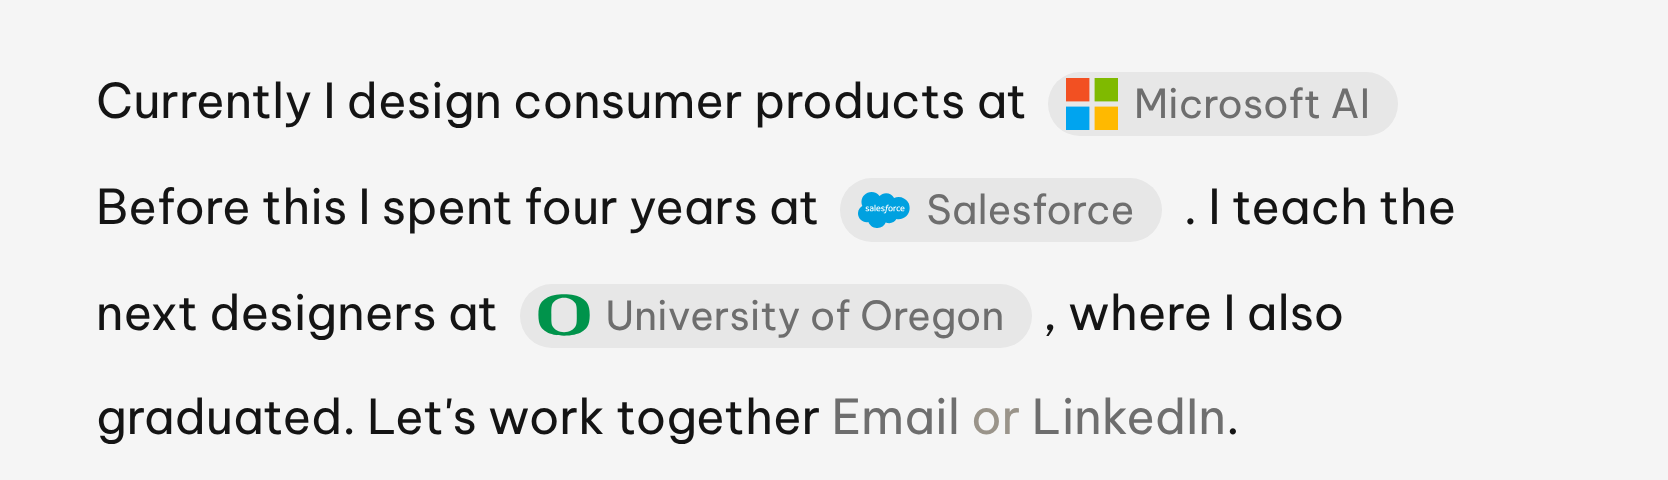
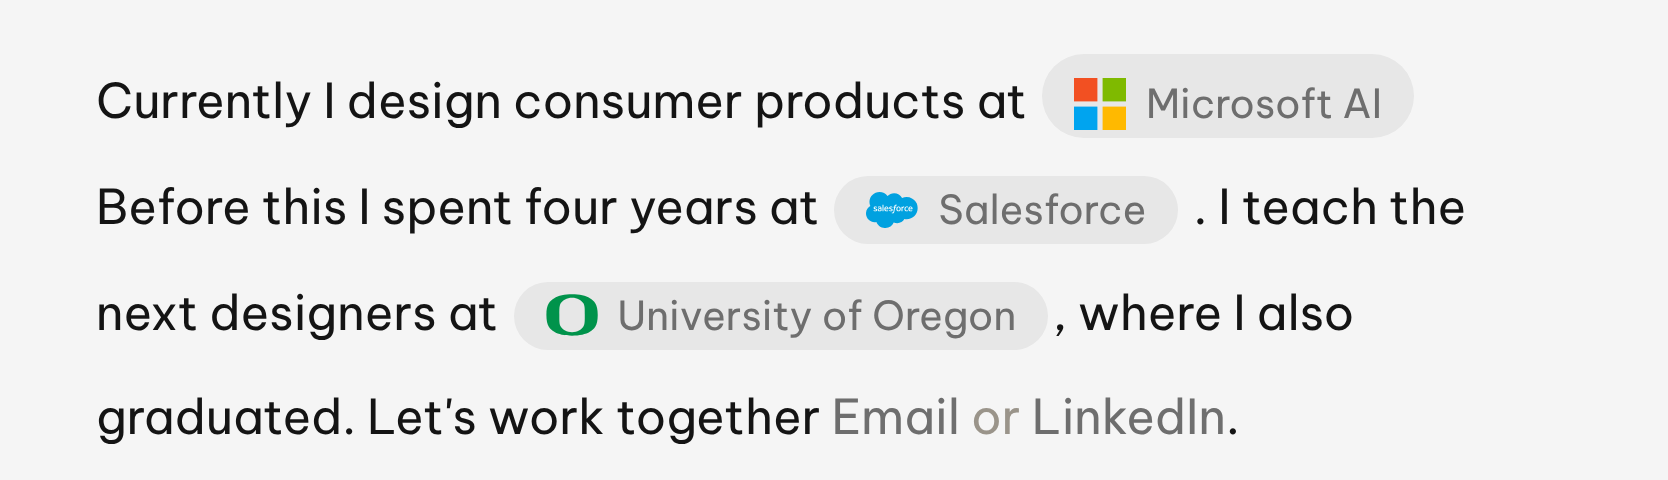
Tablet C prose: let pill padding be tweaked from the canvas
Drop the !important padding and gap on the inline chips so the values set in
the editor apply, and give Salesforce and Oregon the same base padding as
Microsoft.

Claude-Session: https://claude.ai/code/session_014PJDPx1vavpf8H6JAWoaqx

diff --git a/canvas/project/TinHome-Tablet-C.dc.html b/canvas/project/TinHome-Tablet-C.dc.html
@@ -125,7 +125,7 @@ sc-for, sc-if { display: contents; }
 .th-prose button{font-family:inherit;vertical-align:baseline}
 /* pills breathe: taller lines, one padding for every chip, logos in full brand color */
 .th-prose{line-height:2.2 !important}
-.th-prose .th-co{padding:3px 14px 3px 9px !important;margin:0 5px !important;gap:8px !important;vertical-align:-6px !important}
+.th-prose .th-co{margin:0 5px;vertical-align:-6px}
 .th-prose .th-co .lg,.th-prose .th-co:hover .lg{filter:none !important}
 .th-prose .lg,.th-prose .lg-frame{width:26px !important;height:26px !important}
 .th-prose .th-co p{line-height:1.3 !important}
@@ -146,7 +146,7 @@ sc-for, sc-if { display: contents; }
 
   <section id="top" class="th-hero" onPointerMove="{{trMove}}" onPointerLeave="{{trLeave}}" style="min-height: 760px; display: flex; grid-template-columns: repeat(3, minmax(0, 1fr)) minmax(220px, 1.1fr); align-items: flex-start; gap: 24px; padding: 0 100px; flex-direction: column; justify-content: center; padding-right: 150px; padding-left: 150px; position: relative">
     <div style="align-items: flex-end"><p onPointerEnter="{{hiEnter}}" style="margin: 0; font-size: 46px; font-family: Caveat, sans-serif">Hi, I'm Tin</p></div>
-    <div class="th-prose" style="grid-column: 1 / -1; max-width: 700px; font-size: 24px; line-height: 1.8; color: #141414; font-weight: 400"><span>Currently I design consumer products at</span> <a class="th-co" href="https://microsoft.ai" target="_blank" rel="noopener" onPointerEnter="{{msEnter}}" onPointerLeave="{{msLeave}}" style="box-sizing: border-box; display: flex; flex-direction: row; gap: 10px; align-items: center; text-decoration: none; padding-top: 4px; padding-bottom: 4px; padding-right: 16px; padding-left: 16px"><span class="lg-frame" style="flex: none; width: 24px; height: 24px; display: grid; place-items: center"><svg class="lg" role="img" aria-label="Microsoft" width="24" height="24" viewBox="0 0 20 20" style="display: block"><rect x="0" y="0" width="9" height="9" fill="#f25022"></rect><rect x="11" y="0" width="9" height="9" fill="#7fba00"></rect><rect x="0" y="11" width="9" height="9" fill="#00a4ef"></rect><rect x="11" y="11" width="9" height="9" fill="#ffb900"></rect></svg></span><p style="margin: 0; font-size: 20px; color: #6e6e6e">Microsoft AI</p></a> <span>Before this I spent four years at</span> <a class="th-co" href="https://www.salesforce.com" target="_blank" rel="noopener" onPointerEnter="{{sfEnter}}" onPointerLeave="{{sfLeave}}" style="box-sizing: border-box; display: flex; flex-direction: row; gap: 10px; align-items: center; text-decoration: none; padding-top: 8px; padding-bottom: 8px"><span class="lg-frame" style="flex: none; width: 24px; height: 24px; display: grid; place-items: center"><img class="lg" src="/_blob/ac43d25c19be4e522f4bd492e1c090ab" alt="Salesforce" style="width: 24px; height: 24px; object-fit: contain; display: block"></span><p style="margin: 0; font-size: 20px; color: #6e6e6e">Salesforce</p></a> <span>. I teach the next designers at</span> <a class="th-co" href="https://artdesign.uoregon.edu/directory/product-design-instructors/all/tle" target="_blank" rel="noopener" onPointerEnter="{{uoEnter}}" onPointerLeave="{{uoLeave}}" onFocus="{{uoEnter}}" onBlur="{{uoLeave}}" style="box-sizing: border-box; display: flex; flex-direction: row; gap: 10px; align-items: center; text-decoration: none; padding-top: 8px; padding-bottom: 8px"><span class="lg-frame" style="flex: none; width: 24px; height: 24px; display: grid; place-items: center"><img class="lg" src="/_blob/00e0e1ec841a28c4e0055e4a6738e6b1" alt="University of Oregon" style="width: 24px; height: 24px; object-fit: contain; display: block"></span><p style="margin: 0; font-size: 20px; color: #6e6e6e">University of Oregon</p></a><span>, where I also graduated. Let's work together</span> <button type="button" onClick="{{copy}}" onPointerEnter="{{gmEnter}}" onPointerLeave="{{gmLeave}}" title="Copy my email" style="background: none; border: 0; padding: 0; font: inherit; font-size: 22px; color: #6e6e6e; cursor: pointer">{{copyLabel}}</button> <span><span style="color: #9a948a">or</span> <a href="https://www.linkedin.com/in/letin08/" onPointerEnter="{{liEnter}}" onPointerLeave="{{liLeave}}" style="font-size: 22px; color: #6e6e6e">LinkedIn</a>.</span></div>
+    <div class="th-prose" style="grid-column: 1 / -1; max-width: 700px; font-size: 24px; line-height: 1.8; color: #141414; font-weight: 400"><span>Currently I design consumer products at</span> <a class="th-co" href="https://microsoft.ai" target="_blank" rel="noopener" onPointerEnter="{{msEnter}}" onPointerLeave="{{msLeave}}" style="box-sizing: border-box; display: flex; flex-direction: row; gap: 10px; align-items: center; text-decoration: none; padding-top: 12px; padding-bottom: 4px; padding-right: 16px; padding-left: 16px"><span class="lg-frame" style="flex: none; width: 24px; height: 24px; display: grid; place-items: center"><svg class="lg" role="img" aria-label="Microsoft" width="24" height="24" viewBox="0 0 20 20" style="display: block"><rect x="0" y="0" width="9" height="9" fill="#f25022"></rect><rect x="11" y="0" width="9" height="9" fill="#7fba00"></rect><rect x="0" y="11" width="9" height="9" fill="#00a4ef"></rect><rect x="11" y="11" width="9" height="9" fill="#ffb900"></rect></svg></span><p style="margin: 0; font-size: 20px; color: #6e6e6e">Microsoft AI</p></a> <span>Before this I spent four years at</span> <a class="th-co" href="https://www.salesforce.com" target="_blank" rel="noopener" onPointerEnter="{{sfEnter}}" onPointerLeave="{{sfLeave}}" style="box-sizing: border-box; display: flex; flex-direction: row; gap: 10px; align-items: center; text-decoration: none; padding-top: 4px; padding-bottom: 4px; padding-right: 16px; padding-left: 16px"><span class="lg-frame" style="flex: none; width: 24px; height: 24px; display: grid; place-items: center"><img class="lg" src="/_blob/ac43d25c19be4e522f4bd492e1c090ab" alt="Salesforce" style="width: 24px; height: 24px; object-fit: contain; display: block"></span><p style="margin: 0; font-size: 20px; color: #6e6e6e">Salesforce</p></a> <span>. I teach the next designers at</span> <a class="th-co" href="https://artdesign.uoregon.edu/directory/product-design-instructors/all/tle" target="_blank" rel="noopener" onPointerEnter="{{uoEnter}}" onPointerLeave="{{uoLeave}}" onFocus="{{uoEnter}}" onBlur="{{uoLeave}}" style="box-sizing: border-box; display: flex; flex-direction: row; gap: 10px; align-items: center; text-decoration: none; padding-top: 4px; padding-bottom: 4px; padding-right: 16px; padding-left: 16px"><span class="lg-frame" style="flex: none; width: 24px; height: 24px; display: grid; place-items: center"><img class="lg" src="/_blob/00e0e1ec841a28c4e0055e4a6738e6b1" alt="University of Oregon" style="width: 24px; height: 24px; object-fit: contain; display: block"></span><p style="margin: 0; font-size: 20px; color: #6e6e6e">University of Oregon</p></a><span>, where I also graduated. Let's work together</span> <button type="button" onClick="{{copy}}" onPointerEnter="{{gmEnter}}" onPointerLeave="{{gmLeave}}" title="Copy my email" style="background: none; border: 0; padding: 0; font: inherit; font-size: 22px; color: #6e6e6e; cursor: pointer">{{copyLabel}}</button> <span><span style="color: #9a948a">or</span> <a href="https://www.linkedin.com/in/letin08/" onPointerEnter="{{liEnter}}" onPointerLeave="{{liLeave}}" style="font-size: 22px; color: #6e6e6e">LinkedIn</a>.</span></div>
       <div class="th-trail" aria-hidden="true" style="position: absolute; top: 0; right: 0; bottom: 0; width: {{trWidth}}; pointer-events: none; z-index: 0; display: none">
       <canvas ref="{{trRef}}" style="position: absolute; inset: 0; width: 100%; height: 100%; display: block"></canvas>
     </div>
